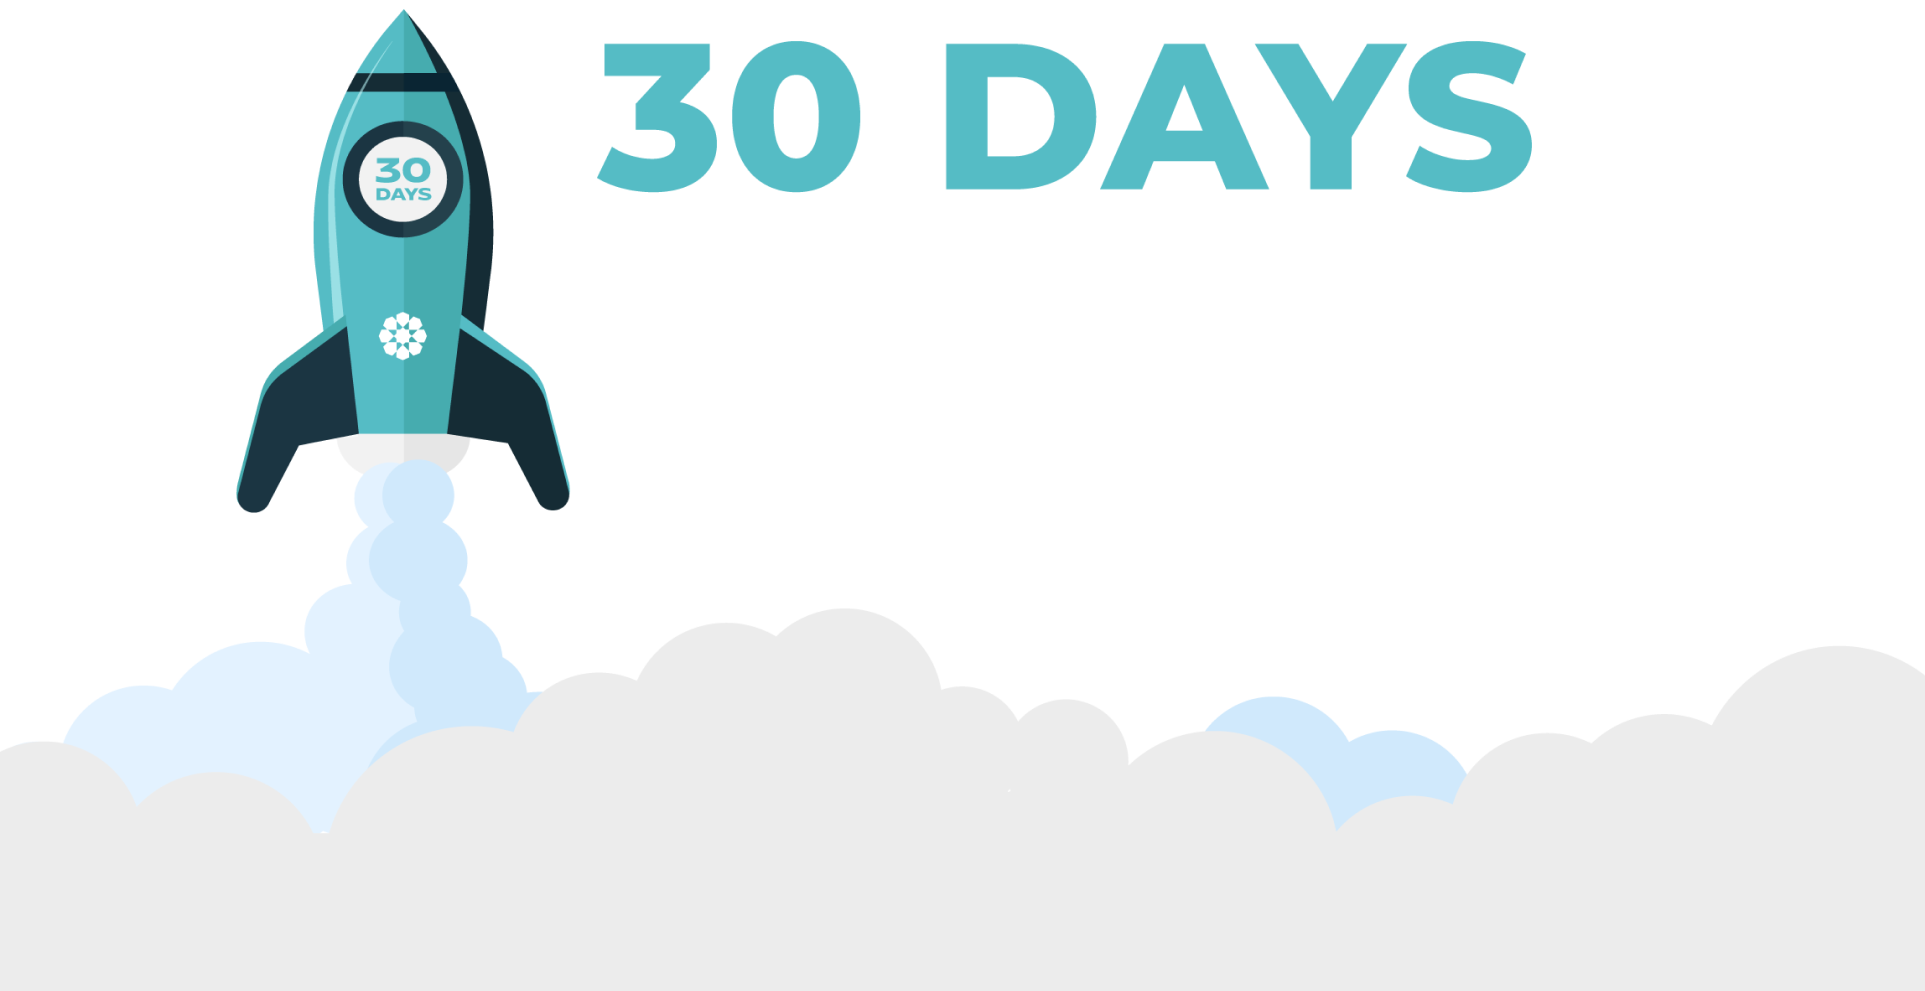
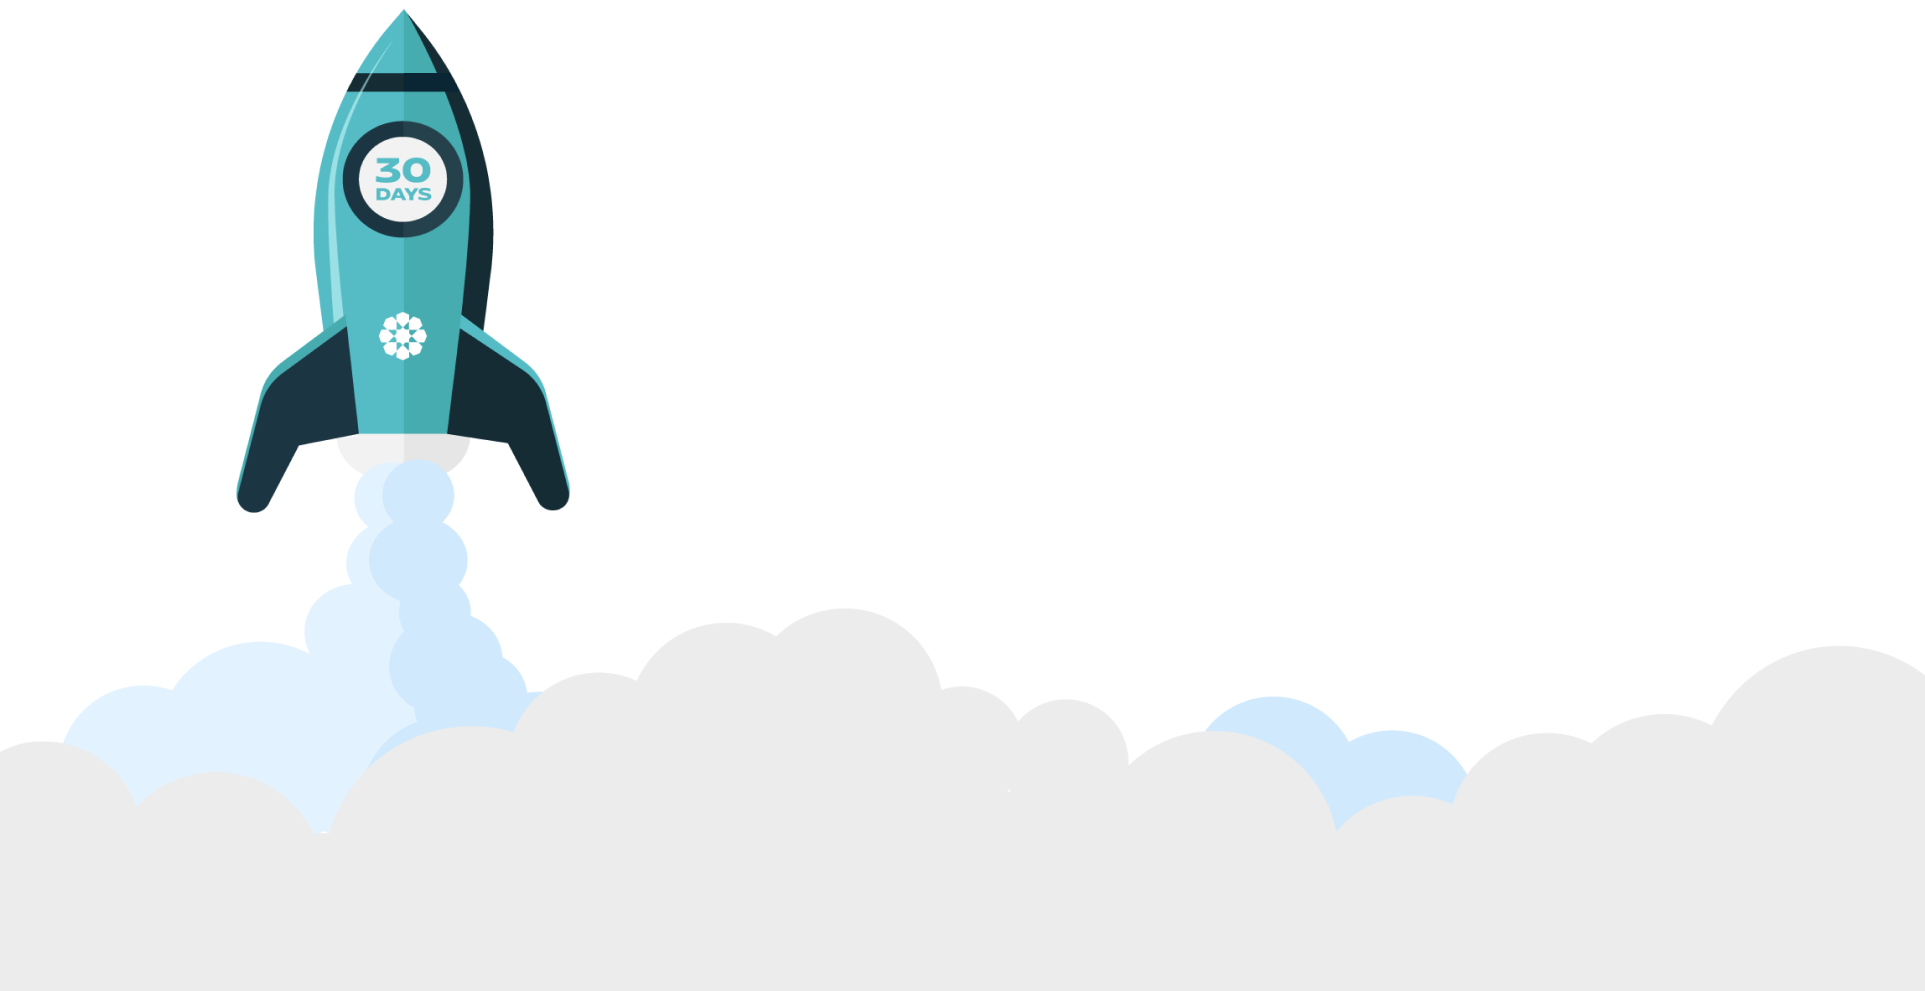
header section updated

Changed region(s): [[0.3117, 0.0303, 0.8104, 0.2119]]

diff --git a/index.html b/index.html
@@ -12,7 +12,7 @@
     <link href="https://fonts.googleapis.com/css2?family=Montserrat:wght@400;500;600;700;800&display=swap" rel="stylesheet" />
   </head>
   <body>
-    <header>
+  <header>
       <div class="container">
         <nav>
           <div class="logo">
@@ -42,8 +42,57 @@
       </div>
     </header>
     <main>
+      <section class="day30">
+        <div style="position: relative; display: block;">
+            <img src="./assets/images/30-days-challenge.png" alt="">
+            <style>
+              .challenge-text{
+                font-weight: 800;
+                position: absolute;
+    top: 0;
+    left: 50%;
+    transform: translateX(-37%);
+              }
+              .fs-1{
+                font-size: 160px;
+                font-size: clamp(3.125rem, -1.7857rem + 15.7143vw, 10rem);
+    color: #71BBC4;
+              }
+              .fs-2{
+                font-size: 70px;
+                font-size: 63px;
+                font-size: clamp(1.25rem, -0.9821rem + 7.1429vw, 4.375rem);
+                font-size: clamp(1.125rem, -1.1964rem + 7.4286vw, 4.375rem);
+                font-size: clamp(1.125rem, -0.8393rem + 6.2857vw, 3.875rem);
+                color: white;
+                white-space: nowrap;
+              }
+              .fs-3{
+    text-align: center;
+    /* margin-top: 50px; */
+    font-size: clamp(0.75rem, -0.9464rem + 5.4286vw, 3.125rem);
+    margin-top: 1em;
+              }
+              .fs33{
+                font-size: 50px;
+                font-size: clamp(0.75rem, -0.9464rem + 5.4286vw, 3.125rem);
+                background-color: #71BBC4;
+    padding: 0.25em 2em;
+    border-radius: 1em;
+                /* margin-top: 1em; */
+              }
+            </style>
+            <div class="challenge-text">
+              <div class="fs-1">SIGNUP</div>
+              <div class="fs-2">Mine alts, save BTC</div>
+              <div class="fs-3">
+                <a href="#" class="fs33">LOGIN</a>
+              </div>
+            </div>
+        </div>
+      </section>
       <!-- ========= Hero ======= -->
-      <section class="hero">
+      <!-- <section class="hero">
         <div class="container">
           <div class="hero-wrapper">
             <div class="hero-content">
@@ -58,7 +107,7 @@
             </div>
           </div>
         </div>
-      </section>
+      </section> -->
       <!-- ========== Club ======= -->
       <section class="about" id="about">
         <div class="container">
@@ -394,9 +443,10 @@
                 the opposite of this AI-touched pic. At Aladino.io, you'll find
                 my outdated Linkedin profile and background, which I'll dust
                 off every now and then (maybe once every year or two).
-                I'm not a big fan of the social scene.</p>
+                Social scenes aren't exactly my cup of tea and my team and I are not job-hunting, folks!
+                </p>
               <div class="member__link">
-                <a href="https://www.linkedin.com/in/micheledomizi" target="_blank"><img src="./assets/images/linkedin-logo.svg" width="103" alt="" /></a>
+                <a href="https://www.linkedin.com/in/micheledomizi" target="_blank"><img src="./assets/images/linkedin-logo.svg" width="103" height="26" alt="" /></a>
               </div>
             </div>
             <!-- == Member card == -->
@@ -415,7 +465,7 @@
                 Always focused on exceeding expectations of customers, distributors and companies.
               </p>
               <div class="member__link">
-                <a href="https://www.linkedin.com/in/michelepelagagge/" target="_blank"><img src="./assets/images/linkedin-logo.svg" width="103" alt="" /></a>
+                <a href="https://www.linkedin.com/in/michelepelagagge/" target="_blank"><img src="./assets/images/linkedin-logo.svg" width="103" height="26" alt="" /></a>
               </div>
             </div>
             <!-- == Member card == -->
@@ -431,29 +481,13 @@
               </div>
               <p class="member__text">I started working as a certified public accountant and tax consultant, but I wasn't happy because I was helping people lose money and, moreover, making them pay taxes for not getting back the services they needed. So I started working inside companies to avoid these tears, with partial improvement. Today with Aladino I can also put together my experiences in crypto mining and make people happy.</p>
               <div class="member__link">
-                <a href="https://www.linkedin.com/in/paolo-musumeci-1126ab11" target="_blank"><img src="./assets/images/linkedin-logo.svg" width="103" alt="" /></a>
+                <a href="https://www.linkedin.com/in/paolo-musumeci-1126ab11" target="_blank"><img src="./assets/images/linkedin-logo.svg" width="103" height="26" alt="" /></a>
               </div>
             </div>
        
           </div>
         </div>
       </section>
-    
-      <!-- ======== FAQ ========== -->
-      <section class="faqs" id="faqs">
-        <div class="container">
-          <p class="tagline">Aladino FAQ’s</p>
-          <h2>WONDERLAND</h2>
-          <p class="text-center">When delving into the world of corporate Frequently Asked Questions (FAQs), it's often like wading through a pool of predictability and routine. These standard FAQ sections can sometimes feel as though they've been assembled from a cookie cutter template, offering responses that echo the same well-worn phrases.</p>
-          <p class="text-center semibold">Welcome to our FAQ wonderland – where questions are answered with a sprinkle of humor and a dash of wisdom! If you don’t like ours, you can always choose to see other companies answer they are all the same.</p>
-          <a href="/FAQ" class="faq-btn">Please check this link for full FAQ’s</a>
-        </div>
-        </section>
-        <section class="day30">
-          <a href="/30days">
-          <img src="./assets/images/30-days-challenge.png" alt="">
-        </a>
-        </section>
     </main>
     <footer class="footer">
       <div class="container">
@@ -487,7 +521,7 @@
           <div class="footer-info">
             <address>
               <span class="bold">Contact:</span>
-              <a href="mailto:email@aladino.com">email@aladino.com</a>
+              <a href="mailto:support@aladino.com">support@aladino.com</a>
             </address>
           </div>
         </div>

diff --git a/assets/css/main.css b/assets/css/main.css
@@ -102,10 +102,12 @@ address {
 header {
   width: 100%;
   background-color: #11202f;
+  position: fixed;
+  z-index: 3;
 }
 
 nav {
-  padding: 38px 0;
+  padding: 33px 0;
   display: flex;
   justify-content: space-between;
   align-items: center;
@@ -189,9 +191,10 @@ nav {
 /* ========== Hero ======== */
 
 .hero {
+  padding-top: 104.2px;
   display: flex;
   flex-direction: column;
-  min-height: calc(100svh - 98px);
+  min-height: 100svh;
   justify-content: center;
   background: linear-gradient(180deg, #11202f 7.92%, #223542 100%);
 }
@@ -334,6 +337,9 @@ nav {
 }
 .member__link {
   text-align: center;
+}
+.member__link a{
+  display: inline-block;
 }
 .cards-wrapper {
   display: flex;
@@ -620,7 +626,7 @@ nav {
 /* 30 day */
 .day30{
   background:linear-gradient(180deg, #11202F 7.92%, #223542 100%);
-  padding-top: 60px;
+  padding-top: 160px;
 }
 /* FAQs */
 .faqs{
@@ -734,6 +740,12 @@ nav {
   }
   .main-nav.active {
     background-color: transparent;
+  }
+  .login-link{
+    background-color: #72BBC4;
+    padding: 10px 18px;
+    border-radius: 10px;
+    background-color: #72BBC4;
   }
   .wrapper {
     background-size: 45%;
